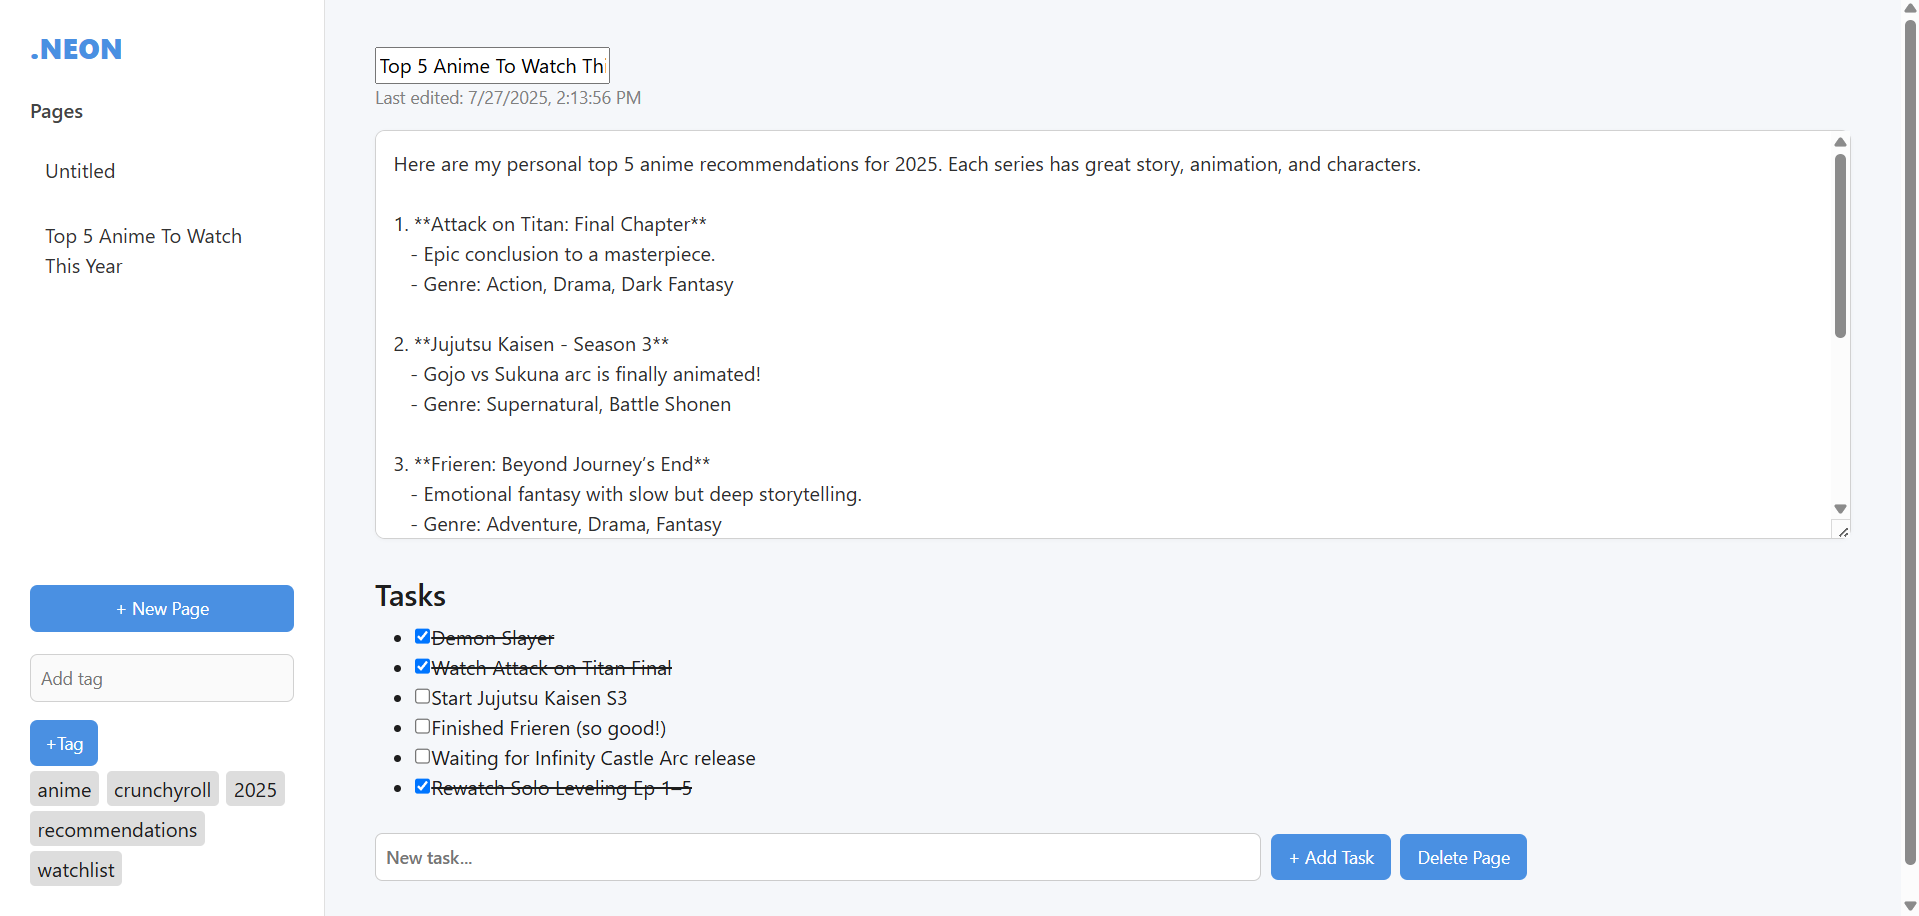
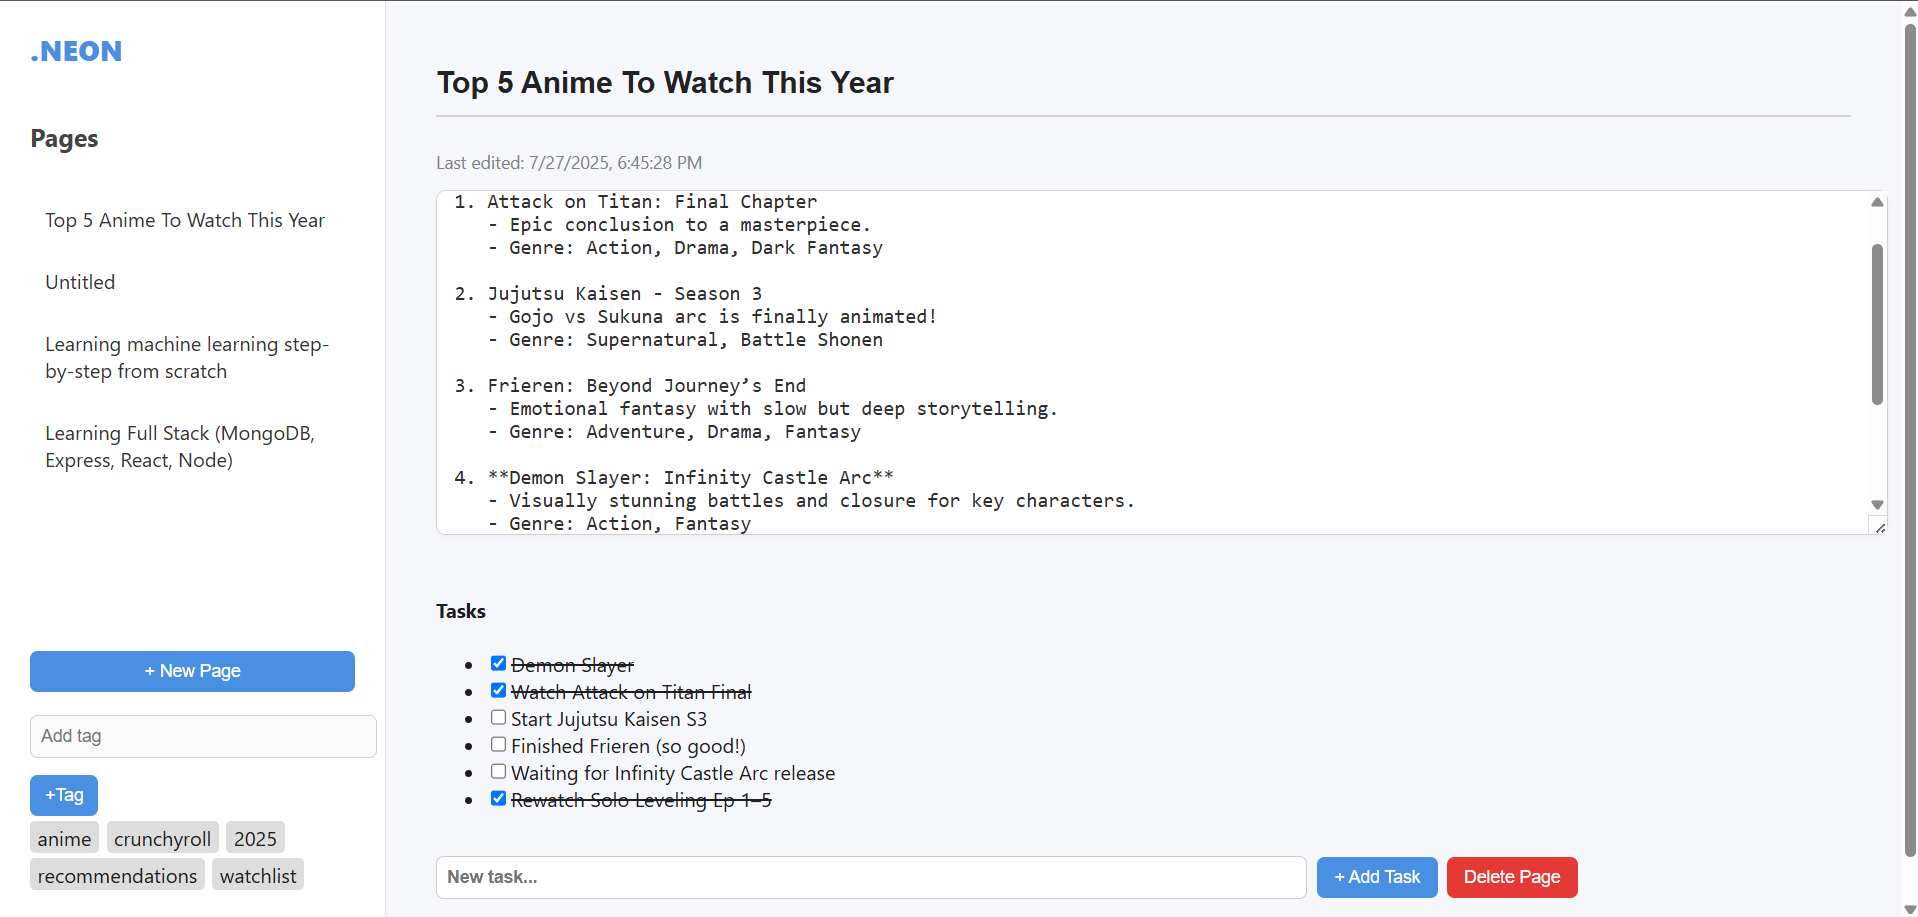
Updating UI

diff --git a/frontend/src/App.js b/frontend/src/App.js
@@ -5,10 +5,8 @@ import "./App.css";
 function App() {
   const [pages, setPages] = useState([]);
   const [currentPage, setCurrentPage] = useState(null);
-
   const [tags, setTags] = useState([]);
   const [newTag, setNewTag] = useState("");
-
   const [tasks, setTasks] = useState([]);
   const [newTask, setNewTask] = useState("");
 
@@ -19,7 +17,7 @@ function App() {
 
   const createPage = async () => {
     const res = await axios.post("http://localhost:5000/api/pages", {
-      title: "Untitled",
+      title: "",
       content: "",
       tags: [],
       tasks: [],
@@ -75,6 +73,7 @@ function App() {
         </ul>
         <button onClick={createPage}>+ New Page</button>
 
+        {/* Tag input */}
         <div style={{ marginTop: "10px" }}>
           <input
             type="text"
@@ -114,13 +113,16 @@ function App() {
         </div>
       </div>
 
+      {/* Page Editor */}
       <div className="editor">
         {currentPage ? (
           <>
             <input
+              type="text"
               value={currentPage.title}
               onChange={(e) => updatePage("title", e.target.value)}
-              placeholder="Page Title"
+              placeholder="Untitled"
+              className="page-title"
             />
 
             {currentPage?.updatedAt && (
@@ -179,8 +181,13 @@ function App() {
             </button>
 
             <button
-              onClick={deletePage}
-              style={{ marginTop: "10px", marginLeft:"7px",color: "" }}
+              className="delete-btn"
+              onClick={() => {
+                const confirmDelete = window.confirm("Are you sure you want to delete this page?");
+                if (confirmDelete) {
+                  deletePage();
+                }
+              }}
             >
               Delete Page
             </button>

diff --git a/frontend/src/App.css b/frontend/src/App.css
@@ -1,4 +1,3 @@
-/* ========= Global & Reset ========= */
 body {
   margin: 0;
   font-family: "Inter", "Segoe UI", sans-serif;
@@ -11,7 +10,6 @@ body {
   height: 100vh;
 }
 
-/* ========= Sidebar ========= */
 .sidebar {
   width: 260px;
   background-color: #ffffff;
@@ -31,8 +29,8 @@ body {
 }
 
 .sidebar h2 {
-  font-size: 16px;
-  font-weight: 600;
+  font-size: 20px;
+  font-weight: 700;
   color: #444;
   margin-bottom: 16px;
 }
@@ -57,7 +55,6 @@ body {
   background-color: #f0f2f5;
 }
 
-/* Sidebar input + button */
 .sidebar input[type="text"] {
   padding: 8px;
   margin: 8px 0;
@@ -85,7 +82,6 @@ body {
   background-color: #3b7dc4;
 }
 
-/* Tags */
 .tag-list {
   margin-top: 10px;
   display: flex;
@@ -102,13 +98,13 @@ body {
   font-weight: 500;
 }
 
-/* ========= Editor ========= */
 .editor {
   flex-grow: 1;
   padding: 40px;
   background-color: #f5f7fa;
   overflow-y: auto;
 }
+
 
 .editor input[type="text"] {
   width: 100%;
@@ -143,7 +139,6 @@ textarea {
   margin-bottom: 24px;
 }
 
-/* ========= Tasks ========= */
 .task-list {
   list-style: none;
   padding: 0;
@@ -174,7 +169,6 @@ textarea {
   color: #212121;
 }
 
-/* ========= Buttons ========= */
 button {
   background-color: #4a90e2;
   color: white;
@@ -192,9 +186,18 @@ button:hover {
 
 .delete-btn {
   background-color: #e53935;
+  color: #ffffff;
+  border: none;
+  padding: 8px 14px;
+  border-radius: 6px;
+  font-size: 14px;
+  cursor: pointer;
+  transition: background 0.2s ease;
   margin-top: 20px;
+  margin-left: 7px;
 }
 
 .delete-btn:hover {
   background-color: #c62828;
 }
+

diff --git a/backend/database/mongoose.js b/backend/database/mongoose.js
@@ -1,6 +1,6 @@
 const mongoose = require("mongoose");
 
-URI = " /notion"  // or MongoDB URI
+URI = "mongodb+srv://aditya_singh:Aditya$%40343@addi.0jj4bvg.mongodb.net/notion"  // or MongoDB URI
 
 mongoose.connect(URI); 
 
